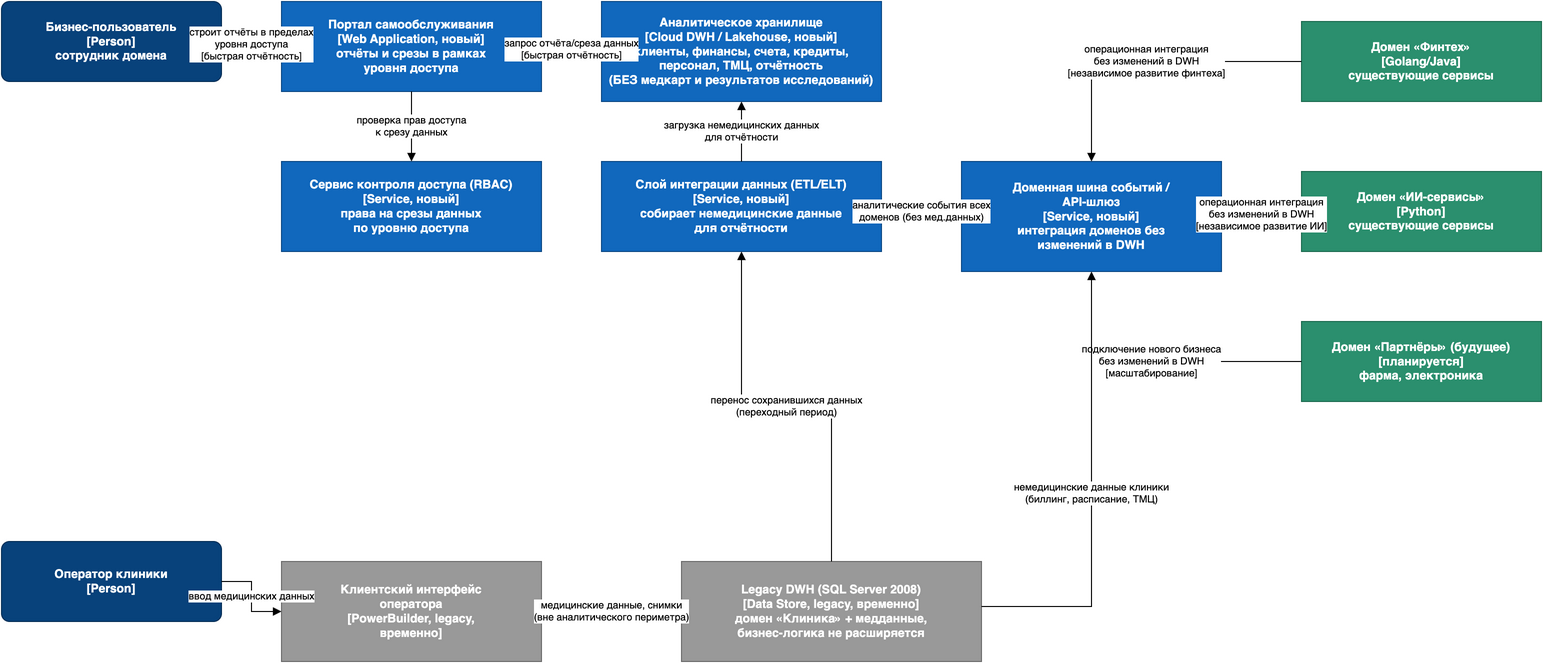
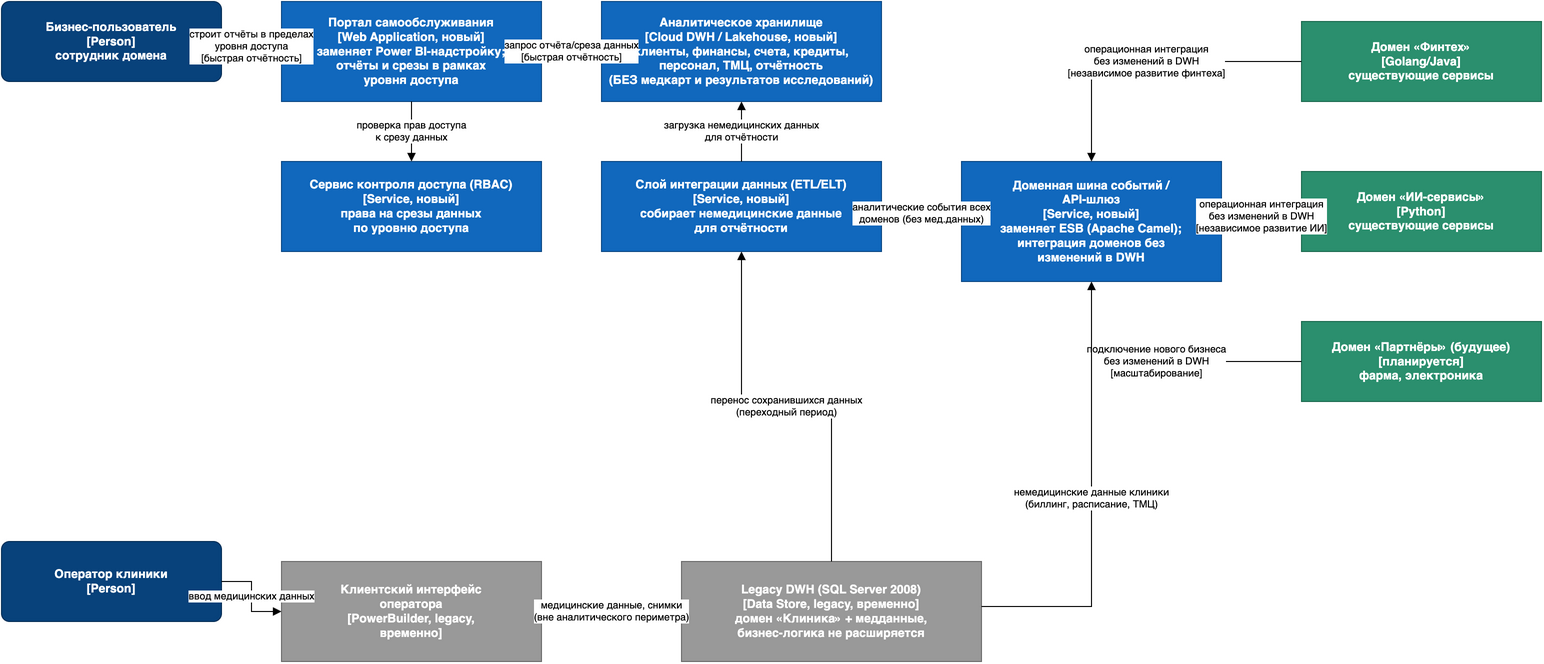
Задание 1: правки по ревью — явное обоснование замены ESB и Power BI (весомое обоснование для отказа от легаси)

diff --git a/Task1/problems-and-priorities.md b/Task1/problems-and-priorities.md
@@ -25,3 +25,14 @@
 | **Won't (в рамках года)** | 9 | Бизнес прямо разрешил временное сохранение легаси-систем в отдельных доменах («допускается временное сохранение легаси-систем»); миграция PowerBuilder не влияет на выручку или скорость вывода новых направлений в этом горизонте планирования |
 
 Пункты Must непосредственно определяют состав целевой архитектуры на диаграмме: портал самообслуживания и RBAC закрывают проблему 7, облачное аналитическое хранилище и слой интеграции данных — проблемы 1 и 6 (данные для витрины физически не включают медкарты), доменная шина событий/API-шлюз — проблемы 2 и 3.
+
+## 3. Судьба текущих легаси-компонентов
+
+Бизнес разрешил отказ от легаси-систем при наличии весомого обоснования. Ниже — явное решение по каждому текущему компоненту.
+
+| Компонент | Решение в целевой архитектуре | Обоснование |
+| --- | --- | --- |
+| DWH (SQL Server 2008) | Частично сохраняется — только домен «Клиника» и медицинские данные; новая бизнес-логика в него не добавляется | Полная единовременная миграция сотен ТБ рискованна и не первоочередна; критично лишь остановить рост встроенной бизнes-логики (проблемы 1, 2) |
+| ESB на Apache Camel | Заменяется доменной шиной событий / API-шлюзом | Текущая шина — точка тесной связанности всех доменов (проблема 3); новая шина спроектирована так, чтобы подключение нового домена (в том числе будущих партнёров) не требовало изменений в DWH или в других доменах |
+| Power BI с кастомизациями поверх DWH | Заменяется порталом самообслуживания и облачным аналитическим хранилищем | Тесная связка BI-кастомизаций со схемой DWH блокирует независимое развитие доменов (проблема 4); порталу дополнительно нужен контроль доступа по уровням (RBAC), которого в текущей надстройке нет |
+| Клиентский интерфейс оператора (PowerBuilder) | Сохраняется без изменений (временно) | Бизнес явно разрешил временное сохранение легаси в отдельных доменах; миграция интерфейса не влияет на цели ближайшего года (проблема 9, приоритет Won't) |
